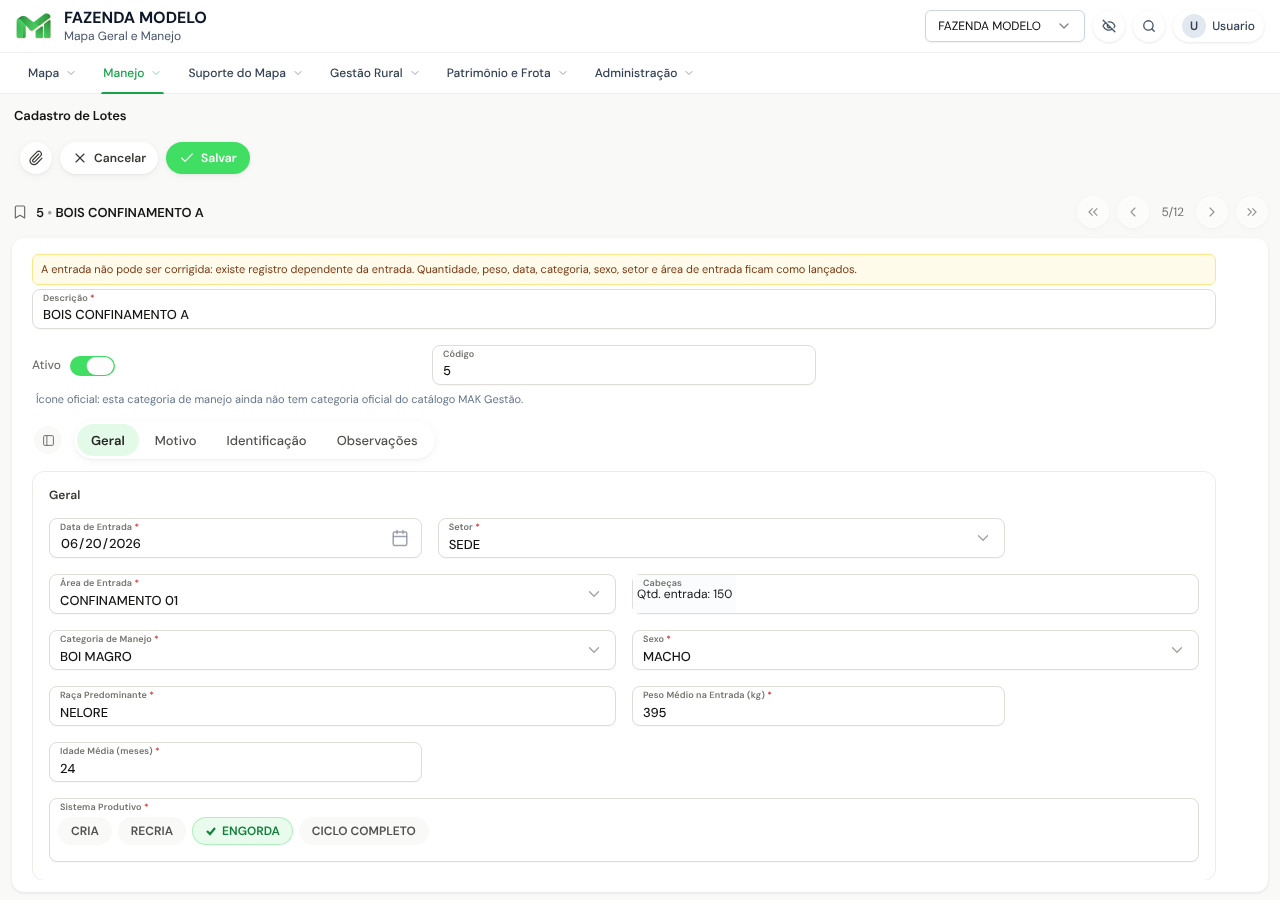
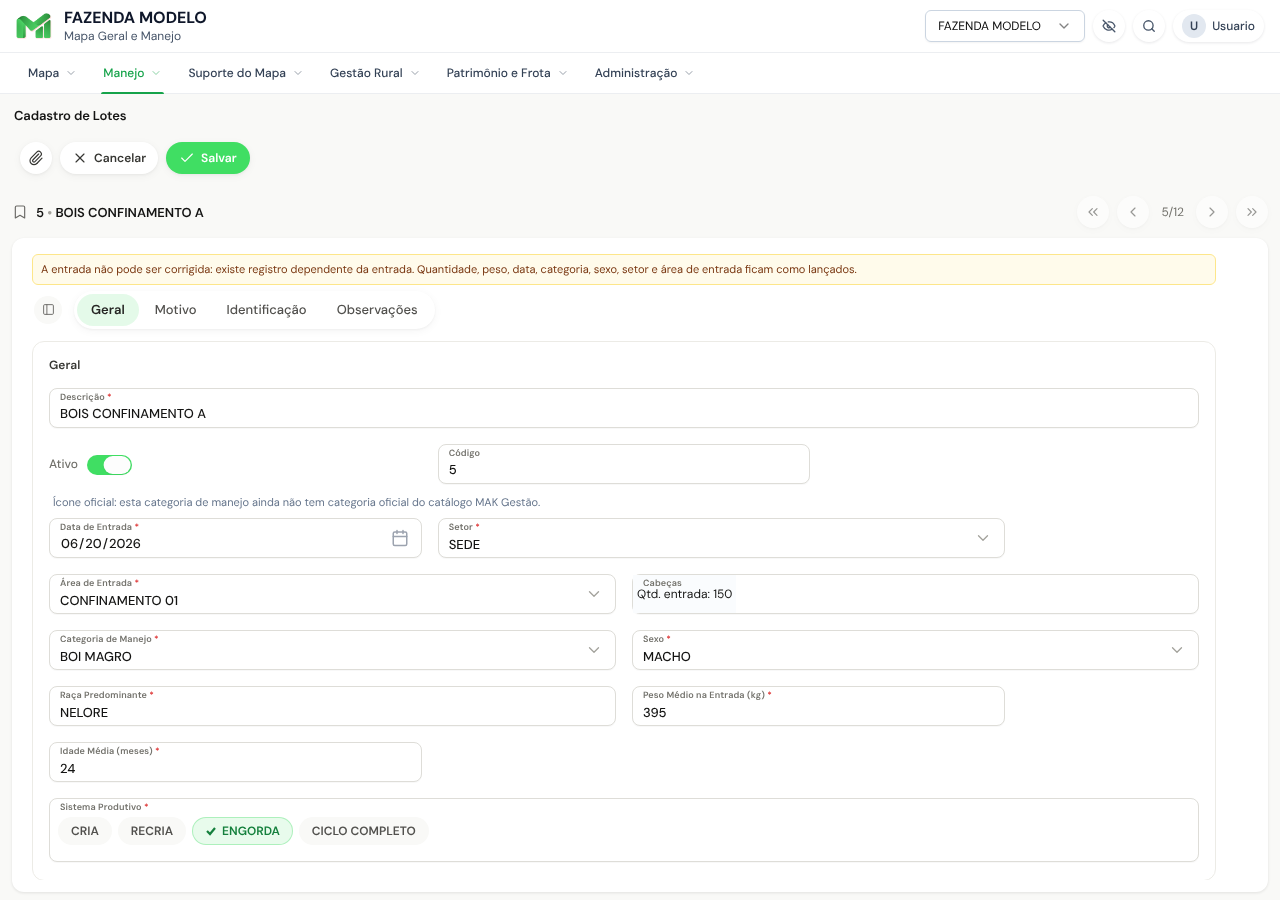
feat(lotes): campos principais dentro do cartão da aba Geral (D-PROD-161)
Claude-Session: https://claude.ai/code/session_01UazgFgDf1f5UbiFMYmmzCM

Changed region(s): [[0.0312, 0.3111, 0.4062, 0.56], [0.1875, 0.3422, 0.3125, 0.3733], [0.3438, 0.4978, 0.4062, 0.56]]

diff --git a/src/components/lotes/FormularioLote.jsx b/src/components/lotes/FormularioLote.jsx
@@ -573,6 +573,31 @@ export default function FormularioLote({
 
   const operationLabel = isDuplicating ? "NOVO REGISTRO DUPLICADO" : isEditing ? editMode ? "EDIÇÃO DE REGISTRO" : "VISUALIZAÇÃO DE REGISTRO" : "NOVO REGISTRO";
 
+  const camposPrincipais = (
+    <>
+      <DynamicFormRenderer
+        panels={activeLayoutConfig.panels}
+        fields={dynamicFields}
+        layout={activeLayoutConfig.layout}
+        hiddenFieldIds={activeLayoutConfig.hiddenFieldIds || []}
+        lockedFieldIds={activeLayoutConfig.lockedFieldIds || []}
+        requiredFieldIds={activeLayoutConfig.requiredFieldIds || []}
+        visibilityRules={activeLayoutConfig.visibilityRules || {}}
+        activePanelId="principal"
+        values={formData}
+        errors={errors}
+        onChange={handleChange}
+        readOnly={isReadOnly}
+        visualVariant={useBase1Visual ? "base1" : "legacy"}
+        />
+              {/* Catálogo global (somente leitura): ícone derivado do vínculo da categoria de manejo (D-PROD-69). */}
+      <IconeOficialLotePreview
+        categoriaVisualId={categoriaVisualIdDoLote}
+        categoriaManejoSelecionada={Boolean(formData.categoria_manejo_id)}
+              />
+    </>
+  );
+
   if (layoutConfigOpen) {
     return (
       <section className="w-full h-full max-w-full bg-white overflow-hidden">
@@ -683,30 +708,14 @@ export default function FormularioLote({
               )}
             </div>
           ) : null}
+          {/* D-PROD-161: no visual Base1 os campos principais ficam dentro do cartão da primeira aba. */}
+          {useBase1Visual ? null : (
           <fieldset className={isReadOnly ? "pointer-events-none [&_input]:cursor-default [&_textarea]:cursor-default [&_button]:cursor-default" : ""}>
-            <div className={useBase1Visual ? "px-2 py-1 w-full" : "px-4 md:px-8 py-1 max-w-[780px]"}>
-              <DynamicFormRenderer
-                panels={activeLayoutConfig.panels}
-                fields={dynamicFields}
-                layout={activeLayoutConfig.layout}
-                hiddenFieldIds={activeLayoutConfig.hiddenFieldIds || []}
-                lockedFieldIds={activeLayoutConfig.lockedFieldIds || []}
-                requiredFieldIds={activeLayoutConfig.requiredFieldIds || []}
-                visibilityRules={activeLayoutConfig.visibilityRules || {}}
-                activePanelId="principal"
-                values={formData}
-                errors={errors}
-                onChange={handleChange}
-                readOnly={isReadOnly}
-                visualVariant={useBase1Visual ? "base1" : "legacy"}
-                />
-              {/* Catálogo global (somente leitura): ícone derivado do vínculo da categoria de manejo (D-PROD-69). */}
-              <IconeOficialLotePreview
-                categoriaVisualId={categoriaVisualIdDoLote}
-                categoriaManejoSelecionada={Boolean(formData.categoria_manejo_id)}
-              />
+            <div className="px-4 md:px-8 py-1 max-w-[780px]">
+              {camposPrincipais}
             </div>
           </fieldset>
+          )}
 
           {useBase1Visual ? (
             <Base1PanelTabs
@@ -726,6 +735,7 @@ export default function FormularioLote({
                   }
                 >
                   <div className="w-full space-y-1">
+                    {panelId === tabs[0]?.id ? camposPrincipais : null}
                     <DynamicFormRenderer
                       panels={tabs}
                       fields={dynamicFields}

diff --git a/docs/engineering/DECISIONS.md b/docs/engineering/DECISIONS.md
@@ -5825,7 +5825,8 @@ Em cada cadeia: bloqueio antes do clique, exclusão do dependente, desbloqueio s
   - **Menus e listas:** Mais opções, menu da coluna, Filtrar por campo, sugestões da pesquisa e seletor de quantidade na mesma janela branca, sem riscos entre linhas.
   - **Listas de seleção e pesquisa:** a janela de seleção dos campos (`PainelSelecao`, usada por `AutocompleteGenerico`, `MgSelect` e `B1Select`) fica branca, com a pesquisa lisa (linha embaixo), o "+" de cadastrar dentro da pesquisa, linhas sem risco e o escolhido com o visto verde — vale onde esses seletores aparecem, inclusive nos filtros do mapa. A pesquisa da barra de cima e as listas de "Configurar colunas"/"Campos dos cards" seguem o mesmo modelo. No celular, as folhas de lista do motor (`mk-base1-sheet`) também.
   - **Cabeçalho do celular nas telas Base1:** botões redondos brancos de 44 px, título centralizado e avatar redondo, só quando uma tela do motor está na frente (`body:has(.cadastro-b1--full-page)`); no Mapa Geral o cabeçalho não muda.
-- **Fora desta fatia (existe no design, não foi portado):** condição/operadores dentro do filtro rápido (continuam no filtro avançado da coluna) e a lista "Filtros" do celular; seleção múltipla em janela (Sistema Produtivo continua em pílulas); movimento de abrir/fechar; reorganização dos campos do Lote dentro da aba Geral; rodapé em palavras ("12 lotes · 1 selecionado") — este último contraria o teste PAR6 (`mobileParidadeV2`) e pede decisão própria.
+  - **Formulário de Lotes:** Descrição, Ativo, Código e o aviso do ícone oficial passam para dentro do cartão da primeira aba (as abas ficam no topo do registro); o layout salvo pelo usuário não muda.
+- **Fora desta fatia (existe no design, não foi portado):** condição/operadores dentro do filtro rápido (continuam no filtro avançado da coluna) e a lista "Filtros" do celular; seleção múltipla em janela (Sistema Produtivo continua em pílulas); movimento de abrir/fechar; grade de 12 colunas do Lote como no design (Descrição 5 · Código 2 · Data 3 · Ativo 2); rodapé em palavras ("12 lotes · 1 selecionado") — este último contraria o teste PAR6 (`mobileParidadeV2`) e pede decisão própria.
 - **Não muda:** telas e painéis próprios do Mapa Geral, lançamentos do mapa (`.mk-lanc`), casca do aplicativo fora das telas Base1, tamanhos de fonte, dados, rotas e escopo.
 - **Revoga em parte:** D-PROD-149 (fundo `#FAFCFE`) e as cores de texto da D-PROD-150, só dentro do motor Base1.
 - **Evidência:** `docs/engineering/evidencias/base1-design-d161/`; teste `tests/smoke/base1DesignD161.test.jsx`; relatório `docs/engineering/UI-BASE1-DESIGN-D161-REPORT.md`.

diff --git a/docs/engineering/UI-BASE1-DESIGN-D161-REPORT.md b/docs/engineering/UI-BASE1-DESIGN-D161-REPORT.md
@@ -35,7 +35,7 @@ Está no design e não entrou:
 - setas e esmaecimento na rolagem lateral da faixa;
 - seleção múltipla em janela (Sistema Produtivo continua em pílulas); no celular o "+" de cadastrar continua no topo da folha, não dentro da pesquisa;
 - movimento de abrir e fechar;
-- campos do Lote reorganizados dentro da aba Geral;
+- larguras exatas dos campos do Lote (o design usa Descrição 5 · Código 2 · Data 3 · Ativo 2 numa linha; aqui os campos principais entraram no cartão da aba Geral com as larguras atuais);
 - rodapé em palavras ("12 lotes · 1 selecionado") — contraria o teste PAR6 de `mobileParidadeV2`.
 
 Limitações conhecidas da faixa de filtros: filtros e ordenação continuam locais à grade (como antes) e somem ao abrir um registro; nas telas paginadas no servidor o filtro vale para as linhas já carregadas (como o filtro de coluna); o total da janela usa a palavra "registros".
